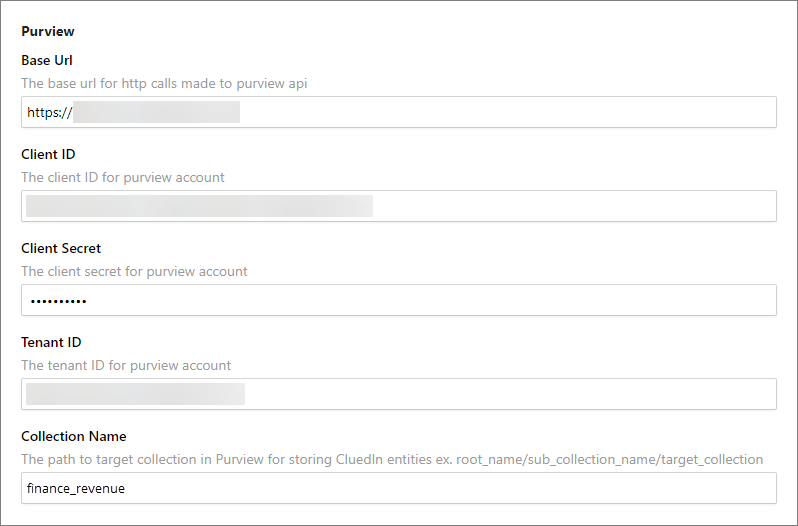
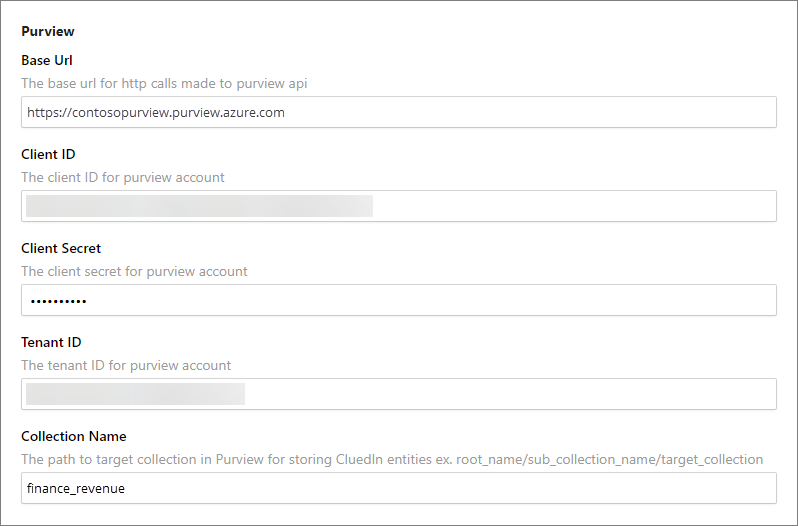
Updates settings instructions

Changed region(s): [[0.0301, 0.1825, 0.3609, 0.2433]]

diff --git a/docs/180-microsoft-integration/purview/020-setup-permissions.md b/docs/180-microsoft-integration/purview/020-setup-permissions.md
@@ -21,13 +21,23 @@ Microsoft Purview integration is enabled on the **Settings** page in CluedIn. Wh
 
 1. In CluedIn, go to **Administration** > **Settings**, and then scroll down to find the **Purview** section.
 
-1. Enter [Microsoft Purview credentials](https://docs.microsoft.com/en-us/azure/purview/create-catalog-portal#open-the-microsoft-purview-governance-portal): **Base URL**, **Client ID**, **Client Secret**, and **Tenant ID**.
+1. Enter Microsoft Purview credentials:
+
+    - **Base URL** – `https://{accountName}.purview.azure.com` where `accountName` is your Purview subscription name. For example, if your Purview subscription name is ContosoPurview, then base URL would be `https://contosopurview.purview.azure.com`. For more details about Purview subscription, see [Microsoft documentation](https://docs.microsoft.com/en-us/azure/purview/create-catalog-portal#open-the-microsoft-purview-governance-portal).
+    
+    - **Client ID** – can be obtained from **Application (client) ID** on the **Overview** tab of the app registration that the organization has dedicated to access Purview account on behalf of CluedIn.
+    
+    - **Client Secret** – can be obtained from the **Certificates & secrets** of the app registration that the organization has dedicated to access Purview account on behalf of CluedIn.
+    
+    - **Tenant ID** – can be obtained from **Directory (tenant) ID** on the **Overview** tab of the app registration that the organization has dedicated to access Purview account on behalf of CluedIn.
+
+        For more information on where to find the values for client ID and tenant ID, see [Microsoft documentation](https://learn.microsoft.com/en-us/entra/identity-platform/quickstart-register-app#register-an-application).
 
 2. In **Collection Name**, enter the target collection path of your Purview instance. For example, root_collection/collection1/targetcollection.
 
     ![Input Microsoft Purview credentials](./media/settings.png)
      
-3. Enable the needed synchronization [features](/microsoft-integration/purview/introduction):
+3. Choose to enable one or more [features](/microsoft-integration/purview/introduction) for your use cases:
 
     - Sync CluedIn Data Sources
     - Sync CluedIn Crawlers and Enrichers
@@ -69,7 +79,13 @@ Azure Data Factory integration is enabled on the **Settings** page in CluedIn. W
 
 1. In CluedIn, go to **Administration** > **Settings**, and then scroll down to find the **Purview** section.
 
-1. Enter [Microsoft Azure Data Factory Credentials](https://learn.microsoft.com/en-us/azure/data-factory/quickstart-create-data-factory): **Base URL**, **Client ID**, **Client Secret**, and **Tenant ID**.
+1. Enter [Microsoft Azure Data Factory Credentials](https://learn.microsoft.com/en-us/azure/data-factory/quickstart-create-data-factory):
+
+    - **Base URL** – `https://management.azure.com/subscriptions/{subscriptionId}/resourceGroups/{resourceGroup}/providers/Microsoft.DataFactory/factories/{factoryName}/`. You can get the resource ID value by navigating to your Azure Data Factory resource and checking the value through JSON View.
+
+        ![json-view](./media/json-view.png)
+    
+    - **Client ID**, **Client Secret**, **Tenant ID** – you can get these values by navigating to your Azure Active Directory > App registration. For more information, see [Microsoft documentation](https://learn.microsoft.com/en-us/power-apps/developer/data-platform/walkthrough-register-app-azure-active-directory).
 
 1. Enable the **Azure Data Factory Pipeline Automation** feature.
 

diff --git a/docs/180-microsoft-integration/purview/010-intro.md b/docs/180-microsoft-integration/purview/010-intro.md
@@ -35,6 +35,10 @@ This feature auto-maps data sets to a vocabulary matching the Purview asset's gl
 
 The Purview glossary terms used by the Purview assets must first be added as CluedIn vocabularies. If the vocabulary (made from Purview glossary terms) is available, the data set is automatically mapped to the right vocabulary.
 
+If the CluedIn data set column name matches an existing vocabulary key of the given vocabulary, the vocabulary key data type is used instead of the Purview entity's schema. If the CluedIn data set column name does not match any existing vocabulary key of the given vocabulary, it will create a new vocabulary key for the vocabulary. The data type of the vocabulary key is determined from the Purview entity's schema.
+
+The default data type is text when no suitable data type in CluedIn is found.
+
 Sync interval applies to this feature.
 
 ## Poll CluedIn Data Sources
